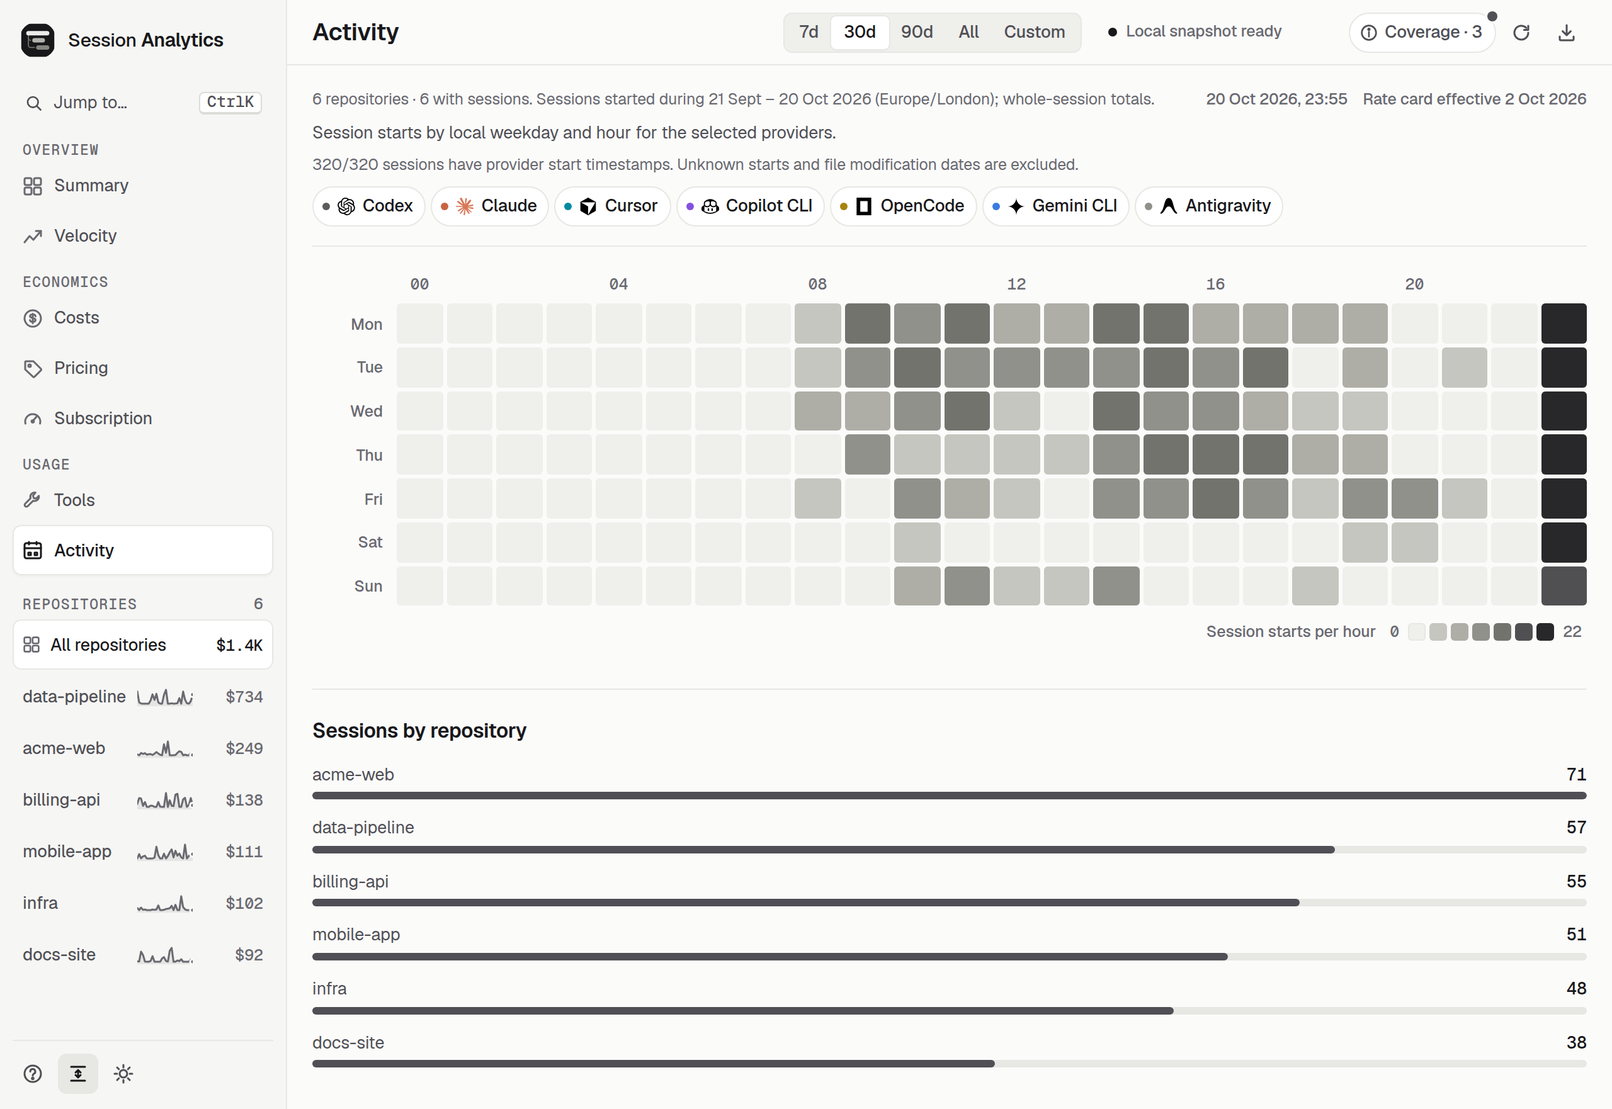
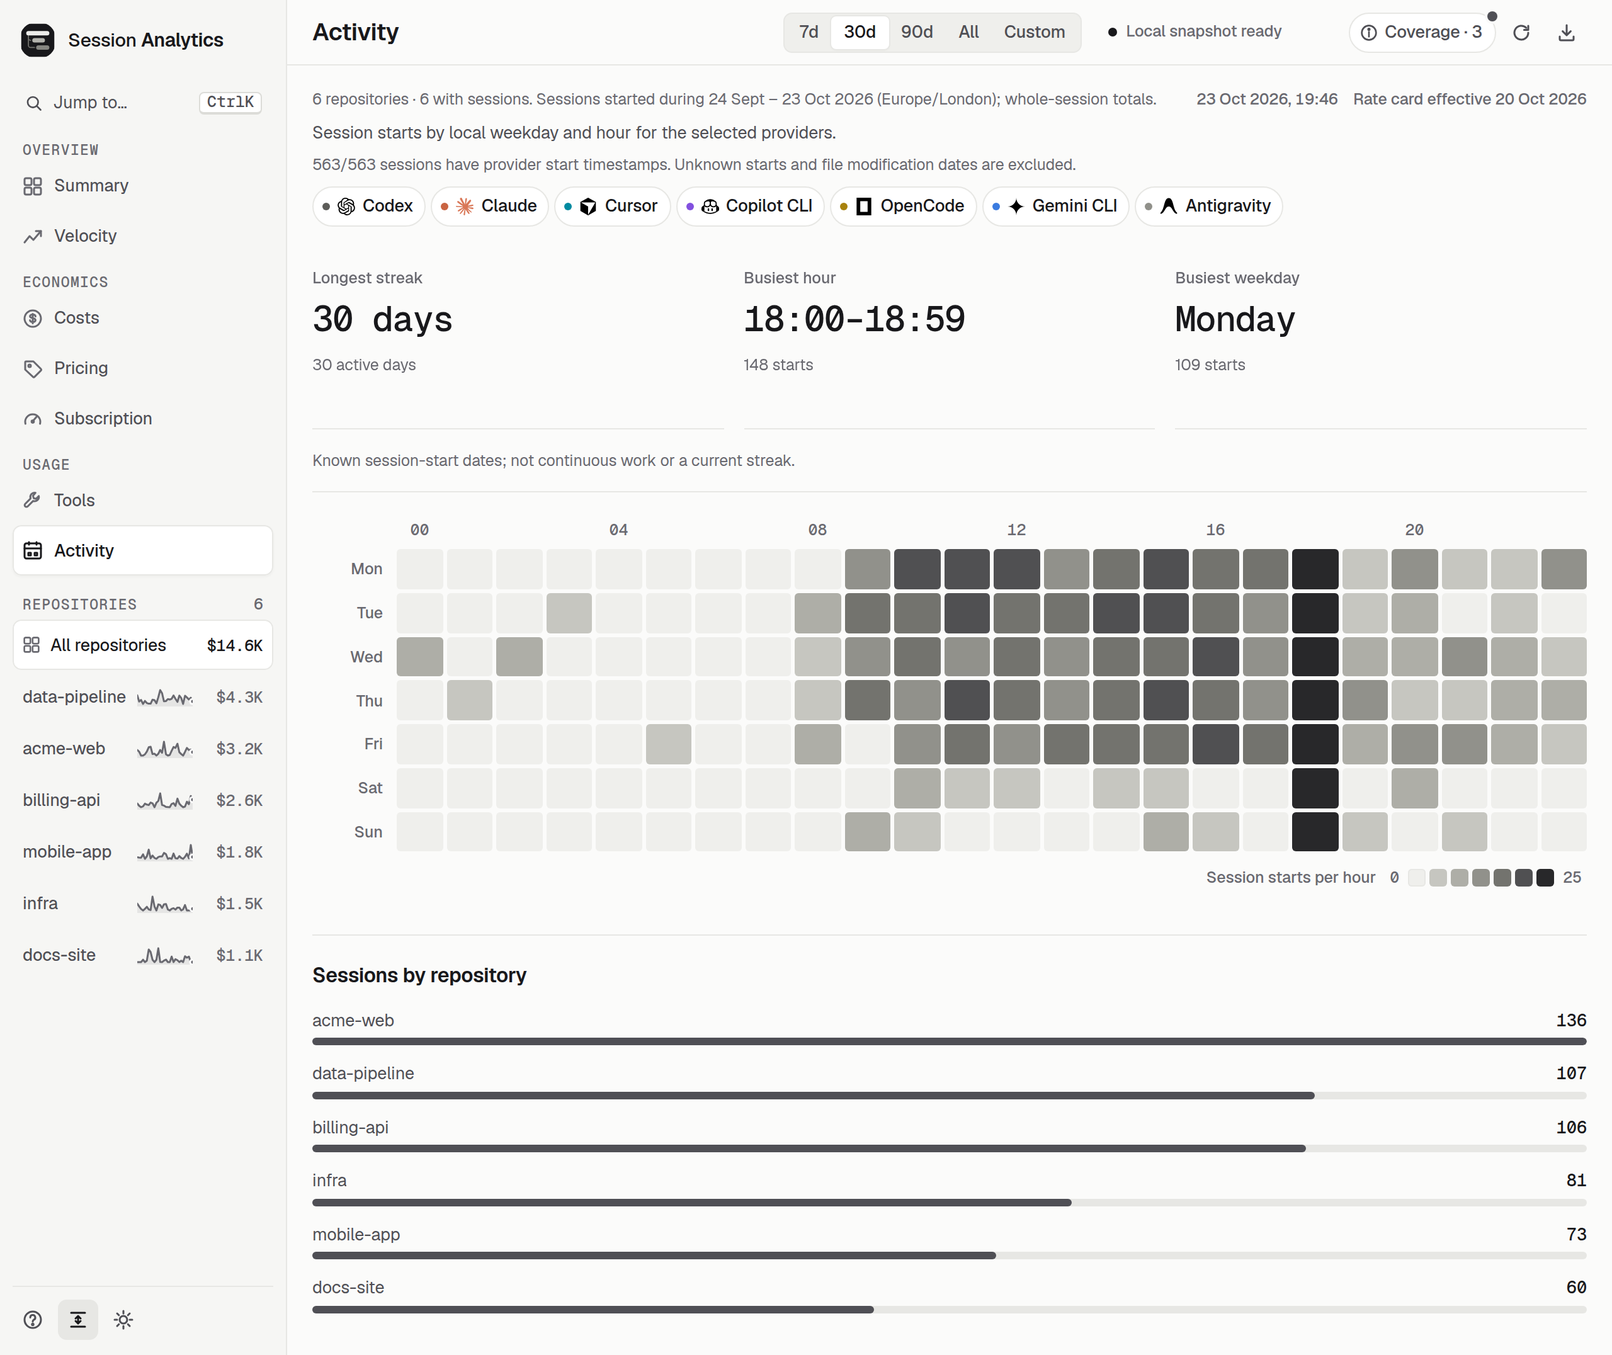
docs(screenshots): show a heavier synthetic workload (~$14.6K a month)
The demo dataset behind every README and landing-page screenshot
added up to about $1.4K over 30 days, which undersold what a team
running agents all day sees. The generator now models a heavier
workload, and all 26 captures were regenerated from it: $14,567
over 30 days, about $9.3K Claude, $4.8K Codex, $220 Cursor, $181
Gemini CLI, $49 OpenCode and a trace of Antigravity.

- demo: more weekday sessions, longer Claude and Codex sessions with
  larger contexts, outputs and cache writes, a heavier Opus mix,
  fewer Codex child threads, and larger Cursor SDK, Gemini CLI and
  OpenCode fixtures. Antigravity fixtures are unchanged because its
  adapter tests pin their values.
- screenshots: the Tools capture finds its panels by id instead of
  the "Read" heading, which broke when exec_command became the top tool.
- site: alt text and image dimensions match the new captures.
- tests/release check: the demo now takes longer and prints more
  JSON, so its spawn timeouts and buffers are larger.

diff --git a/scripts/demo.ts b/scripts/demo.ts
@@ -146,8 +146,8 @@ const repositorySpecs = [
 ] as const;
 
 const claudeModels = [
-  ["claude-opus-5", 55],
-  ["claude-sonnet-5", 33],
+  ["claude-opus-5", 64],
+  ["claude-sonnet-5", 24],
   ["claude-fable-5-1", 6],
   ["claude-opus-4-8", 6],
 ] as const;
@@ -214,7 +214,7 @@ interface ClaudeTurnState {
 }
 
 function claudeUsage(model: string, state: ClaudeTurnState, output: number, longCache: boolean) {
-  const created = integer(400, 4_500);
+  const created = integer(4_000, 16_000);
   const thinking = model.includes("haiku") ? 0 : Math.round(output * between(0.15, 0.55));
   const usage = {
     input_tokens: integer(2, 40),
@@ -257,7 +257,7 @@ interface ClaudeTranscriptOptions {
 function claudeTranscript(options: ClaudeTranscriptOptions): { records: unknown[]; end: number; spawned: number } {
   const { cwd, model, repository, sessionId } = options;
   const records: unknown[] = [];
-  const state: ClaudeTurnState = { clock: options.start, compactions: 0, context: options.subagent ? integer(9_000, 16_000) : integer(18_000, 32_000) };
+  const state: ClaudeTurnState = { clock: options.start, compactions: 0, context: options.subagent ? integer(20_000, 36_000) : integer(36_000, 64_000) };
   const effort = model.includes("haiku") ? undefined : weighted(effortLevels);
   const coldCache = repository.name === "data-pipeline" && !options.subagent;
   const longCache = !coldCache && !options.subagent && chance(0.35);
@@ -285,7 +285,7 @@ function claudeTranscript(options: ClaudeTranscriptOptions): { records: unknown[
     }
     const messageId = `msg_${hex(24)}`;
     const requestId = `req_${hex(24)}`;
-    const output = heavy(options.subagent ? 260 : 420, 0.8, 6_000);
+    const output = heavy(options.subagent ? 900 : 2_600, 0.8, 20_000);
     const tools: Array<{ id: string; name: string; input: Record<string, unknown> }> = [];
     const toolCount = weighted([[0, 18], [1, 62], [2, 15], [3, 5]] as const);
     for (let tool = 0; tool < toolCount; tool += 1) {
@@ -340,7 +340,7 @@ function claudeTranscript(options: ClaudeTranscriptOptions): { records: unknown[
       push({ type: "user", message: { role: "user", content: [{ type: "tool_result", tool_use_id: tool.id, is_error: Number.parseInt(tool.id.slice(-2), 16) % 17 === 0, content: "[synthetic tool result PRIVATE_DEMO_CONTENT_SENTINEL]" }] } });
       state.clock += integer(1, 30) * 1000;
     }
-    state.context += integer(600, 3_200);
+    state.context += integer(3_000, 10_000);
     if (state.context > 165_000) {
       const postTokens = integer(24_000, 38_000);
       push({ type: "system", subtype: "compact_boundary", content: "Conversation compacted",
@@ -366,7 +366,7 @@ function writeClaudeSession(root: string, repository: Repository, start: number)
   const cwd = workingDirectory(repository);
   const sessionId = uuid();
   const model = weighted(claudeModels);
-  const messages = heavy(34, 0.85, 420);
+  const messages = heavy(110, 0.8, 700);
   const projectDirectory = join(root, claudeProjectDirectory(cwd));
   const entrypoint = weighted([["cli", 40], ["sdk-ts", 50], ["local-agent", 10]] as const);
   const main = claudeTranscript({ entrypoint, cwd, messages, model, repository, sessionId, start, subagent: false });
@@ -426,20 +426,20 @@ function writeCodexSession(
   push("session_meta", { id, cwd, source, originator: source === "exec" ? "codex_exec" : source === "vscode" ? "codex_vscode" : "codex_cli_rs", cli_version: "0.140.0", timestamp: iso(clock), creator_account_id: demoCodexAccount });
   push("turn_context", { cwd, model, effort, approval_policy: "on-request", sandbox_policy: { type: "workspace-write" } });
   const total: CodexCounter = { cached_input_tokens: 0, input_tokens: 0, output_tokens: 0, reasoning_output_tokens: 0, total_tokens: 0 };
-  let context = integer(9_000, 18_000);
-  const turns = parentThreadId ? 1 : heavy(5, 0.7, 40);
+  let context = integer(36_000, 64_000);
+  const turns = parentThreadId ? 1 : heavy(12, 0.7, 60);
   const children: number[] = [];
   for (let turn = 0; turn < turns; turn += 1) {
     clock += integer(20, 600) * 1000;
     const turnStarted = clock;
     push("event_msg", { type: "user_message", message: "[synthetic demo prompt PRIVATE_DEMO_CONTENT_SENTINEL]", images: [] });
     push("event_msg", { type: "task_started", turn_id: `turn-${turn}`, model_context_window: 272_000 });
-    const calls = heavy(parentThreadId ? 5 : 7, 0.7, 60);
+    const calls = heavy(parentThreadId ? 5 : 11, 0.7, 70);
     for (let call = 0; call < calls; call += 1) {
       clock += integer(2, 45) * 1000;
       const input = context + integer(200, 1_500);
       const cached = Math.round(input * between(0.82, 0.96));
-      const output = heavy(380, 0.8, 9_000);
+      const output = heavy(3_000, 0.8, 24_000);
       const reasoning = Math.round(output * between(0.25, 0.65));
       const last = { cached_input_tokens: cached, input_tokens: input, output_tokens: output, reasoning_output_tokens: reasoning, total_tokens: input + output };
       for (const key of Object.keys(total) as Array<keyof CodexCounter>) total[key] += last[key];
@@ -466,12 +466,12 @@ function writeCodexSession(
           }),
         });
       }
-      context += integer(800, 4_000);
+      context += integer(4_000, 12_000);
       if (context > 210_000) {
         push("event_msg", { type: "context_compacted" });
         context = integer(20_000, 34_000);
       }
-      if (!parentThreadId && chance(0.012)) children.push(clock);
+      if (!parentThreadId && chance(0.004)) children.push(clock);
     }
     clock += integer(2, 20) * 1000;
     push("event_msg", { type: "agent_message", message: "[synthetic demo response PRIVATE_DEMO_CONTENT_SENTINEL]" });
@@ -503,7 +503,7 @@ function writeCursorDatabase(path: string, sessions: Array<{ repository: Reposit
   const insert = database.prepare("INSERT INTO cursorDiskKV (key, value) VALUES (?, ?)");
   for (const { repository, start } of sessions) {
     const composerId = uuid();
-    const bubbles = integer(4, 22);
+    const bubbles = integer(24, 80);
     let clock = start;
     let costInCents = 0;
     for (let index = 0; index < bubbles; index += 1) {
@@ -512,7 +512,7 @@ function writeCursorDatabase(path: string, sessions: Array<{ repository: Reposit
       const tool = assistant && chance(0.7)
         ? { name: pick(["read_file", "edit_file", "run_terminal_cmd", "codebase_search", "grep_search"]), toolCallId: `tool_${hex(16)}` }
         : null;
-      const input = assistant ? integer(6_000, 48_000) : 0;
+      const input = assistant ? integer(120_000, 400_000) : 0;
       const output = assistant ? heavy(320, 0.7, 4_000) : 0;
       costInCents += assistant ? Math.round(input * 0.0003 + output * 0.0015) : 0;
       clock += integer(10, 90) * 1000;
@@ -607,12 +607,12 @@ function generate(root: string): {
     const weekend = day.getDay() === 0 || day.getDay() === 6;
     // Usage ramps up over the window, as it does when a team adopts agents.
     const ramp = 0.55 + 0.45 * ((DAYS - offset) / DAYS);
-    const count = Math.round((weekend ? between(0, 3) : between(4, 10)) * ramp);
+    const count = Math.round((weekend ? between(0, 4) : between(11, 21)) * ramp);
     for (let index = 0; index < count; index += 1) {
       const start = sessionStart(day.valueOf());
       if (start > now) continue;
       const repository = weighted(repositories.map((item) => [item, item.weight] as const));
-      const provider = weighted([["claude", 54], ["codex", 38], ["cursor", 8]] as const);
+      const provider = weighted([["claude", 52], ["codex", 43], ["cursor", 5]] as const);
       if (provider === "claude") {
         // Company repositories run on the Team seat, the rest on the personal Max plan.
         const profile = workRepositories.has(repository.name) ? "work" : "default";

diff --git a/scripts/demo-providers.ts b/scripts/demo-providers.ts
@@ -26,7 +26,7 @@ export function generateProviderDemo(root: string, repositories: Array<{ root: s
       db.prepare("INSERT INTO session VALUES (?,?,?,?,?)").run(id, null, repo.root, start, end);
       db.prepare("INSERT INTO message VALUES (?,?,?)").run(`${id}-user`, id, JSON.stringify({ role: "user", time: { created: start }, content: "Synthetic demo message" }));
       for (let turn = 0; turn < 3 + n; turn++) {
-        db.prepare("INSERT INTO message VALUES (?,?,?)").run(`${id}-response-${turn}`, id, JSON.stringify({ role: "assistant", modelID: "claude-sonnet-5", time: { created: start + turn * 30000 }, tokens: { input: 4000 * (i + 1), output: 1800, reasoning: 500, cache: { read: 6000, write: 1200 } } }));
+        db.prepare("INSERT INTO message VALUES (?,?,?)").run(`${id}-response-${turn}`, id, JSON.stringify({ role: "assistant", modelID: "claude-sonnet-5", time: { created: start + turn * 30000 }, tokens: { input: 60000 * (i + 1), output: 4200, reasoning: 1200, cache: { read: 90000, write: 8000 } } }));
         db.prepare("INSERT INTO part (id, session_id, data) VALUES (?,?,?)").run(`${id}-tool-${turn}`, id, JSON.stringify({ type: "tool", tool: ["read", "edit", "bash"][turn % 3], callID: `${id}-call-${turn}`, state: { input: {}, output: "Synthetic output" } }));
       }
       const antigravityId = `e0000000-0000-4000-8000-${String(i * 10 + n).padStart(12, "0")}`;
@@ -39,11 +39,11 @@ export function generateProviderDemo(root: string, repositories: Array<{ root: s
       write(join(copilot, id, "events.jsonl"), jsonl(persisted));
       write(join(gemini, repo.name, "chats", `session-${id}.json`), JSON.stringify({ sessionId: id, projectHash: createHash("sha256").update(repo.root).digest("hex"), startTime: at, lastUpdated: later, kind: "main", messages: [
         { id: `${id}-user`, type: "user", timestamp: at, content: "Synthetic prompt" },
-        { id: `${id}-response`, type: "gemini", timestamp: later, model: "claude-sonnet-5", tokens: { input: 35000 * (n + 1), cached: 12000, output: 4500, thoughts: 2500 }, toolCalls: [{ id: `${id}-read`, name: "read_file", args: {}, result: "Synthetic result" }] },
+        ...Array.from({ length: 40 + n * 8 }, (_, turn) => ({ id: `${id}-response-${turn}`, type: "gemini", timestamp: later, model: "claude-sonnet-5", tokens: { input: 60000 + turn * 4000, cached: 45000 + turn * 3500, output: 4500, thoughts: 2500 }, toolCalls: [{ id: `${id}-read-${turn}`, name: "read_file", args: {}, result: "Synthetic result" }] })),
       ] }));
       const agentId = `c0000000-0000-4000-8000-${String(i * 10 + n).padStart(12, "0")}`, dir = join(sdk, id);
       write(join(dir, "agents.ndjson"), jsonl([{ agentId, cwd: repo.root, createdAt: at, updatedAt: later }]));
-      write(join(dir, "runs.ndjson"), jsonl([{ agentId, runId: id, model: { id: "claude-opus-5" }, status: "finished", createdAt: at, startedAt: at, endedAt: later, usage: { inputTokens: 75000, cacheReadTokens: 120000, cacheWriteTokens: 15000, outputTokens: 8500, reasoningTokens: 3000 } }]));
+      write(join(dir, "runs.ndjson"), jsonl([{ agentId, runId: id, model: { id: "claude-opus-5" }, status: "finished", createdAt: at, startedAt: at, endedAt: later, usage: { inputTokens: 900000, cacheReadTokens: 2400000, cacheWriteTokens: 180000, outputTokens: 110000, reasoningTokens: 36000 } }]));
       write(join(dir, "run_events.ndjson"), jsonl(Array.from({ length: 7 + n }, (_, tool) => ({ payload: { type: "sdk_message", message: { type: "tool_call", agent_id: agentId, run_id: id, call_id: `${id}-${tool}`, name: tool % 2 ? "read_file" : "edit_file", status: "completed" } } }))));
       const transcriptId = `d0000000-0000-4000-8000-${String(i * 10 + n).padStart(12, "0")}`;
       const path = join(transcripts, repo.root.replace(/^\//, "").replace(/[^A-Za-z0-9]/g, "-"), "agent-transcripts", `${transcriptId}.jsonl`);

diff --git a/site/index.html b/site/index.html
@@ -56,7 +56,7 @@
           <img
             src="./assets/screenshot-summary.webp"
             width="2560"
-            height="2192"
+            height="2378"
             alt="Summary view: daily usage value by provider over 30 days and a totals rail with usage value, sessions, tokens and tool calls"
             fetchpriority="high"
         /></picture>
@@ -111,8 +111,8 @@
           <img
             src="./assets/screenshot-subscription.webp"
             width="2560"
-            height="2856"
-            alt="Limits for three accounts: Claude Max 20x at 89% left this week with a warning that its 5-hour limit runs out early, ChatGPT Pro at 37%, Claude Team at 46%"
+            height="2820"
+            alt="Limits for three accounts: ChatGPT Pro at 44% left this week, Claude Max 20x at 78% with a warning that it hit its 5-hour limit, Claude Team at 91%"
             loading="lazy"
         /></picture>
       </div>
@@ -140,8 +140,8 @@
           <img
             src="./assets/screenshot-velocity-movers.webp"
             width="2080"
-            height="810"
-            alt="Top increases table: claude-fable-5-1 up $5.20, claude-opus-4-8 up 52%, gpt-5.4-mini up 679%, each with previous and current evidence"
+            height="811"
+            alt="Top increases table: gpt-5.5 up $177.59, claude-opus-4-8 up 486%, Codex CLI up 116%, each with previous and current evidence"
             loading="lazy"
         /></picture>
       </div>
@@ -171,8 +171,8 @@
           <img
             src="./assets/screenshot-costs.webp"
             width="2560"
-            height="3114"
-            alt="Costs view: $1,427.32 usage value, 97.7% pricing coverage, and cost by provider led by Claude at $1,234.83"
+            height="4312"
+            alt="Costs view: $14,567.03 usage value, 97.4% pricing coverage, and cost by provider led by Claude at $9,309.22 and Codex at $4,806.86"
             loading="lazy"
         /></picture>
       </div>
@@ -196,7 +196,7 @@
           <img
             src="./assets/screenshot-activity.webp"
             width="2560"
-            height="1762"
+            height="2152"
             alt="Heatmap of session starts by weekday and hour, busiest on weekday afternoons"
             loading="lazy"
         /></picture>
@@ -240,7 +240,7 @@
             <img
               src="./assets/screenshot-repository.webp"
               width="2080"
-              height="2392"
+              height="2394"
               alt="The data-pipeline repository in focus: usage value by model and its most-used tools"
               loading="lazy"
           /></picture>

diff --git a/scripts/screenshots.ts b/scripts/screenshots.ts
@@ -55,7 +55,7 @@ const CAPTURES: Capture[] = [
     name: "subscription", view: "subscription", waitJs: "document.querySelectorAll('.limit-row').length > 0 && Boolean(document.querySelector('.worth-totals'))",
     fitJs: "Math.max(...[...document.querySelectorAll('.subscription-card')].slice(0, 2).map((card) => card.getBoundingClientRect().bottom))",
   },
-  { name: "tools", view: "tools", fitJs: "Math.max(...['Top tools', 'Read'].map((t) => { const r = __rect(__p(t)); return r[1] + r[3]; }))" },
+  { name: "tools", view: "tools", fitJs: "Math.max(...['#tools-ranking-title', '#tools-profile-title'].map((id) => { const r = __rect(document.querySelector(id).closest('article.panel, section.panel')); return r[1] + r[3]; }))" },
   { name: "activity", view: "activity", fitJs: "document.querySelector('#activity-repositories-panel').getBoundingClientRect().bottom" },
   { name: "coverage", view: "summary", js: "document.querySelector('#coverage-button').click()", clipJs: "__rect(document.querySelector('#coverage-dialog'))", pad: 28 },
   { name: "palette", view: "summary", js: "document.querySelector('#command-button').click()", clipJs: "__rect(document.querySelector('#command-palette'))", pad: 28 },

diff --git a/test/integration-release.test.ts b/test/integration-release.test.ts
@@ -680,7 +680,7 @@ test("release: every dispatcher command shares help and version without scanning
   }
 });
 
-test("release: complete demo API, all providers and renderers, static modules and privacy work together", { timeout: 120_000 }, async (t) => {
+test("release: complete demo API, all providers and renderers, static modules and privacy work together", { timeout: 240_000 }, async (t) => {
   const listener = createServer(); await new Promise<void>((resolve) => listener.listen(0, "127.0.0.1", resolve));
   const address = listener.address(); assert.ok(address && typeof address === "object");
   await new Promise<void>((resolve) => listener.close(() => resolve()));
@@ -694,7 +694,7 @@ test("release: complete demo API, all providers and renderers, static modules an
   try {
     let ready = false;
     // Seeding seven providers includes many SQLite commits and can exceed 20 seconds on a busy filesystem.
-    for (let i = 0; i < 600; i++) {
+    for (let i = 0; i < 1_500; i++) {
       assert.equal(child.exitCode, null, errors);
       try { ready = (await realFetch(`${base}/api/health`)).ok; } catch { /* Starting. */ }
       if (ready) break; await delay(100);

diff --git a/test/dashboard.browser.test.ts b/test/dashboard.browser.test.ts
@@ -162,7 +162,7 @@ test("laptop tables and mobile fleet cards fit in both themes and densities", { 
     await mkdir(home); await mkdir(demoTemp);
     // The full demo includes all seven providers, History coverage, and enough repositories for the fleet table.
     const demo = spawnSync(process.execPath, [join(repositoryRoot, "scripts/demo.ts"), "report", "--json"], {
-      cwd: repositoryRoot, encoding: "utf8", maxBuffer: 16 * 1024 * 1024, timeout: 60_000,
+      cwd: repositoryRoot, encoding: "utf8", maxBuffer: 64 * 1024 * 1024, timeout: 180_000,
       env: { ...hermeticEnvironment(fixture, home), TMPDIR: demoTemp, TMP: demoTemp, TEMP: demoTemp },
     });
     assert.equal(demo.status, 0, demo.stderr);

diff --git a/scripts/release-check.ts b/scripts/release-check.ts
@@ -108,7 +108,7 @@ function main(): void {
   console.log(`Release metadata agrees at ${version}.`);
 
   function run(command: string, arguments_: string[]): string {
-    const result = spawnSync(command, arguments_, { cwd: root, encoding: "utf8", maxBuffer: 32 * 1024 * 1024, timeout: 120_000 });
+    const result = spawnSync(command, arguments_, { cwd: root, encoding: "utf8", maxBuffer: 64 * 1024 * 1024, timeout: 300_000 });
     if (result.error || result.status !== 0) {
       if (result.stderr) process.stderr.write(result.stderr);
       throw new Error(`Release check failed: ${command} ${arguments_.join(" ")}`);

diff --git a/test/cli.test.ts b/test/cli.test.ts
@@ -178,7 +178,7 @@ test("demo sweeps stale temp roots", async () => {
     const old = new Date(Date.now() - 2 * 86_400_000);
     for (const path of [stale, kept, owned, abandoned, unrelated, file]) await utimes(path, old, old);
     const result = spawnSync(process.execPath, [resolve(here, "../scripts/demo.ts"), "report", "--json"], {
-      encoding: "utf8", maxBuffer: 16 * 1024 * 1024, timeout: 60_000,
+      encoding: "utf8", maxBuffer: 64 * 1024 * 1024, timeout: 180_000,
       env: { ...process.env, TMPDIR: directory, TMP: directory, TEMP: directory },
     });
     assert.equal(result.status, 0, result.stderr);

diff --git a/assets/SCREENSHOTS.md b/assets/SCREENSHOTS.md
@@ -2,9 +2,9 @@
 
 Dashboard screenshots contain synthetic fixtures only. They do not show developer session history.
 
-All 26 captures were refreshed on 2026-10-20 from `node scripts/demo.ts --no-open --port 4175` with `node scripts/screenshots.ts --url http://127.0.0.1:4175`. The source baseline is `448efe3`, including the brand marks for every provider, the Top increases table and the dashboard fixes from the 2026-10-20 UI review.
+All 26 captures were refreshed on 2026-10-23 from `SESSION_ANALYTICS_DEMO_NOW=2026-10-23T17:30:00Z node scripts/demo.ts --no-open --port 4175` with `node scripts/screenshots.ts --url http://127.0.0.1:4175`. The source baseline is `fc3a187` with the heavier demo workload, which puts the 30-day usage value near $14.6K: about $9.3K Claude, $4.8K Codex, and small Cursor, Gemini CLI, OpenCode and Antigravity shares.
 
-The captured snapshot was generated at `2026-10-20T22:55:44.710Z`: 481 sessions across six fictional repositories and all seven providers, including 24 Antigravity sessions. Antigravity's token/tool fixtures contribute to provider charts, repository breakdowns, tool-call totals and coverage. These fixtures do not establish live Antigravity calibration or support for legacy `.pb` histories.
+The captured snapshot was generated at `2026-10-23T18:46:28.043Z`: 947 sessions across six fictional repositories and all seven providers, including 24 Antigravity sessions. Antigravity's token/tool fixtures contribute to provider charts, repository breakdowns, tool-call totals and coverage. These fixtures do not establish live Antigravity calibration or support for legacy `.pb` histories.
 
 Desktop views use 1280 CSS pixels, comfortable density and the default 30-day window in both themes. Velocity opens with the default Model grouping. Summary includes the complete totals rail and provider breakdown. Subscription waits for its synthetic meters (two Claude profiles and one Codex account), then ends below the first row of account cards.
 
